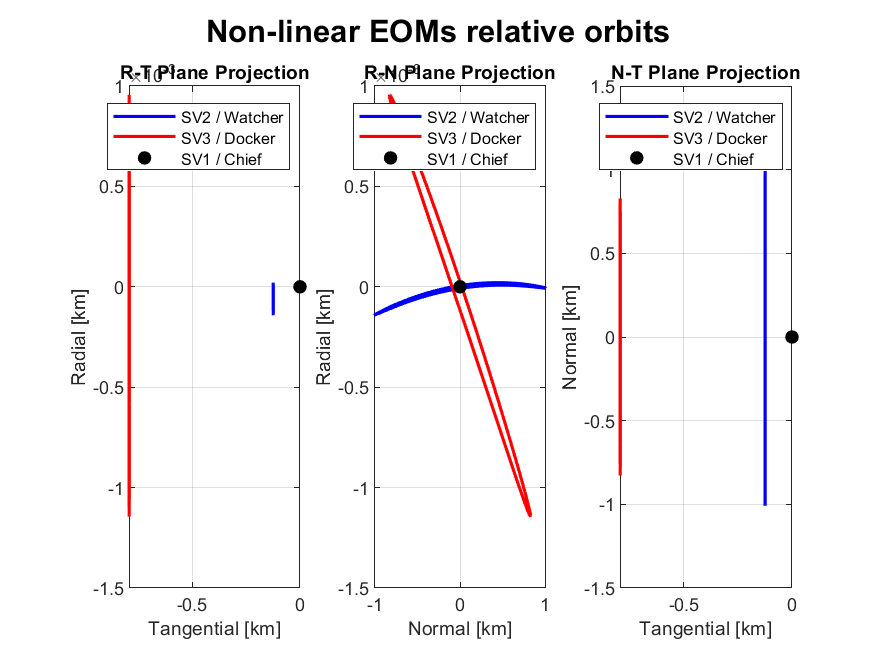
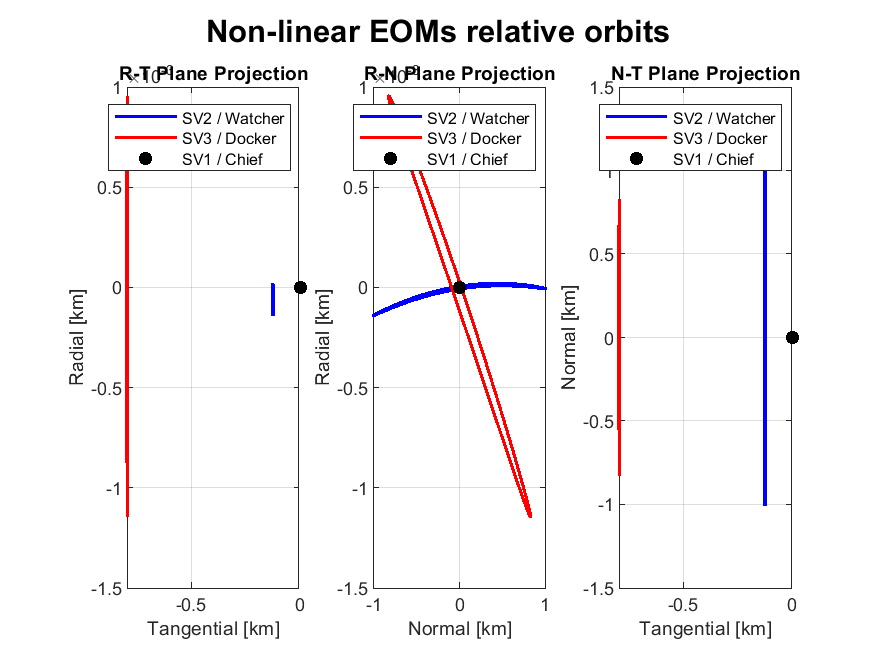
mostly done Q2

diff --git a/sim/evaluate_YA_geometric_mapping.m b/sim/evaluate_YA_geometric_mapping.m
@@ -1,0 +1,75 @@
+function states = evaluate_YA_geometric_mapping(t, a, ex, ey, i, w, M_init, d_a,d_lambda,d_e_x,d_e_y,d_i_x,d_i_y)
+    global mu_earth;
+    n = sqrt(mu_earth / a^3);
+    e = sqrt(ex^2 + ey^2);
+    eta = sqrt(1 - e^2);
+    
+
+    ROE_init = [d_a;d_lambda;d_e_x;d_e_y;d_i_x;d_i_y];
+    N = length(t);
+    states = zeros(N, 6);
+    for idx = 1:N
+        M = deg2rad(M_init) + n * t(idx);
+        M = mod(M, 2*pi);
+        E = Newton_Raphson(M, e, 1e-10);
+        f = 2 * atan2(sqrt(1 + e) * tan(E / 2), sqrt(1 - e));
+        u = w + f;  % True longitude
+
+        k = 1 + ex*cos(u)+ ey*sin(u);
+        k_prime = -ex*sin(u) + ey*cos(u);
+
+        %tau = n * t(idx) / eta^3;
+
+        A = [a * (eta^2)*eye(3), zeros(3); zeros(3), a * (n / eta) * eye(3)];
+        B = compute_B_full(t(idx), k, k_prime, n, eta, u, i, ex, ey);
+        total = A * B;
+        states(idx, :) = (total * ROE_init)';
+    end
+end
+
+function B = compute_B_full(t, k, kp, n, eta, u, i, ex, ey)
+    
+    % Bx block
+    bx1 = 1/k + (3/2)*kp*(n/eta^3)*t;
+    bx2 = -kp / eta^3;
+    bx3 = (1/eta^3)*(ex*(k - 1)/(1 + eta) - cos(u));
+    bx4 = (1/eta^3)*(ey*(k - 1)/(1 + eta) - sin(u));
+    bx6 = (kp / eta^3) * cot(i);
+    
+    % By block
+    by1 = -(3/2)*k*(n/eta^3) * t;
+    by2 = k / eta^3;
+    by3 = (1/eta^2)*((1 + 1/k)*sin(u) + (ey/k) + (k/eta)*(ey/(1 + eta)));
+    by4 = -(1/eta^2)*((1 + 1/k)*cos(u) + (ex/k) + (k/eta)*(ex/(1 + eta)));
+    by6 = (1/k - (k/eta^3))*cot(i);
+    
+    % Bz block
+    bz5 = (1/k) * sin(u);
+    bz6 = -(1/k) * cos(u);
+
+    % Bxdot block
+    bx_dot1 = (kp/2) + (3/2)*(k^2)*(1 - k)*(n/eta^3) * t;
+    bx_dot2 = (k^2 / eta^3) * (k - 1);
+    bx_dot3 = (k^2 / eta^3) * (eta * sin(u) + ey * (k - 1)/(1 + eta));
+    bx_dot4 = -(k^2 / eta^3) * (eta * cos(u) + ex * (k - 1)/(1 + eta));
+    bx_dot6 = -(k^2 / eta^3) * (k - 1) * cot(i);
+
+    % Bydot block
+    by_dot1 = -(3/2)*k*(1 + k * kp * (n / eta^3) * t);
+    by_dot2 = (k^2 / eta^3) * kp;
+    by_dot3 = (1 + (k^2 / eta^3))*cos(u) + ex*(k/eta^2)*(1 + (k/eta)*(1 - k)/(1 + eta));
+    by_dot4 = (1 + (k^2 / eta^3))*sin(u) + ey*(k/eta^2)*(1 + (k/eta)*(1 - k)/(1 + eta));
+    by_dot6 = -(1 + (k^2 / eta^3))*kp*cot(i);
+
+    % Bz dot block
+    bz_dot5 = cos(u) + ex;
+    bz_dot6 = sin(u) + ey;
+
+    B = zeros(6, 6);
+    B(1,1) = bx1;    B(1,2) = bx2;    B(1,3) = bx3;    B(1,4) = bx4;    B(1,6) = bx6;
+    B(2,1) = by1;    B(2,2) = by2;    B(2,3) = by3;    B(2,4) = by4;    B(2,6) = by6;
+    B(3,5) = bz5;    B(3,6) = bz6;
+    B(4,1) = bx_dot1;B(4,2) = bx_dot2;B(4,3) = bx_dot3;B(4,4) = bx_dot4;B(4,6) = bx_dot6;
+    B(5,1) = by_dot1;B(5,2) = by_dot2;B(5,3) = by_dot3;B(5,4) = by_dot4;B(5,6) = by_dot6;
+    B(6,5) = bz_dot5;B(6,6) = bz_dot6;
+end

diff --git a/sim/ps3_sims.m b/sim/ps3_sims.m
@@ -110,14 +110,14 @@ state_rel_SV3_init = [r_SV1_ECI_init; v_SV1_ECI_init; r_SV3_RTN_init; v_SV3_RTN_
 %%%%%% RUN SIM OF RELATIVE MOTION %%%%%%%%
 [t_2, state_2] = rk4_eom_rel_RTN(tstart:tint:tend, state_rel_SV2_init);
 [t_3, state_3] = rk4_eom_rel_RTN(tstart:tint:tend, state_rel_SV3_init);
-SV2_rel_pos = [state_2(:, 7), state_2(:, 8), state_2(:, 9)];
+SV2_rel_pos_ecc = [state_2(:, 7), state_2(:, 8), state_2(:, 9)];
 SV2_rel_vel = [state_2(:, 10), state_2(:, 11), state_2(:, 12)];
-SV3_rel_pos = [state_3(:, 7), state_3(:, 8), state_3(:, 9)];
+SV3_rel_pos_ecc = [state_3(:, 7), state_3(:, 8), state_3(:, 9)];
 SV3_rel_vel = [state_3(:, 10), state_3(:, 11), state_3(:, 12)];
 
 % We see that the ratio of relative distance to orbit size is smaller than 1e-3
-rho_pos_ratio_SV2 = vecnorm(SV2_rel_pos, 2, 2)./r_RTN_no_j2(:, 1);
-rho_pos_ratio_SV3 = vecnorm(SV3_rel_pos, 2, 2)./r_RTN_no_j2(:, 1);
+rho_pos_ratio_SV2 = vecnorm(SV2_rel_pos_ecc, 2, 2)./r_RTN_no_j2(:, 1);
+rho_pos_ratio_SV3 = vecnorm(SV3_rel_pos_ecc, 2, 2)./r_RTN_no_j2(:, 1);
 
 %%%%% CALCULATE THE YA INTEGRATION CONSTANTS %%%%% 
 K_YA_SV2 = ya_integration_constants([r_SV2_RTN_init; v_SV2_RTN_init], a_SV1_init, e_SV1_init, nu_SV1_init);
@@ -126,10 +126,23 @@ K_YA_SV3 = ya_integration_constants([r_SV3_RTN_init; v_SV3_RTN_init], a_SV1_init
 
 %%%% PROPAGATE RELATIVE POS, VEL USING YA SOLUTION %%%%%%
 % evaluate_ya(t, a, e, K, M_init)
-SV2_YA_state = evaluate_ya(t_2, a_SV1_init, e_SV1_init, M_SV1_init, K_SV2);
-%SV3_HCW_state = evaluate_HCW(t_2, a_SV1_init, K_SV3);  
+SV2_YA_state = evaluate_ya(t_2, a_SV1_init, e_SV1_init, M_SV1_init, K_YA_SV2);
+SV3_YA_state = evaluate_ya(t_2, a_SV1_init, e_SV1_init, M_SV1_init, K_YA_SV3);  
 
-SV2_HCW_pos = SV2_YA_state(:, 1:3);
-%SV3_HCW_pos = SV3_HCW_state(:, 1:3);
-SV2_HCW_vel = SV2_YA_state(:, 4:6);
-%SV3_HCW_vel = SV3_HCW_state(:, 4:6);
+SV2_YA_pos = SV2_YA_state(:, 1:3);
+SV3_YA_pos = SV3_YA_state(:, 1:3);
+SV2_YA_vel = SV2_YA_state(:, 4:6);
+SV3_YA_vel = SV3_YA_state(:, 4:6);
+
+%%%% PROPAGATE RELATIVE POS, VEL USING YA GEOMETRIC LINEAR MAPPING %%%%%%
+SV2_YA_state_mapping = evaluate_YA_geometric_mapping(t_2,a_SV1_init,ex_SV1_init,...
+    ey_SV1_init,i_SV1_init,w_SV1_init,M_SV1_init,d_a_SV2_init,d_lambda_SV2_init,...
+    d_e_x_SV2_init,d_e_y_SV2_init,d_i_x_SV2_init,d_i_y_SV2_init);
+SV3_YA_state_mapping = evaluate_YA_geometric_mapping(t_2,a_SV1_init,ex_SV1_init,...
+    ey_SV1_init,i_SV1_init,w_SV1_init,M_SV1_init,d_a_SV3_init,d_lambda_SV3_init,...
+    d_e_x_SV3_init,d_e_y_SV3_init,d_i_x_SV3_init,d_i_y_SV3_init);
+
+SV2_YA_mapping_pos = SV2_YA_state(:, 1:3);
+SV3_YA_mapping_pos = SV3_YA_state(:, 1:3);
+SV2_YA_mapping_vel = SV2_YA_state(:, 4:6);
+SV3_YA_mapping_vel = SV3_YA_state(:, 4:6);

diff --git a/sim/sim_main.m b/sim/sim_main.m
@@ -91,7 +91,12 @@ if run_PS3
 
     %%%%% PLOT OF RELATIVE ORBITS USING YA %%%%%
     plot_rel_pos_vel_single(t_2, t_orbit, SV2_YA_pos, SV2_YA_vel, 'SV2 YA evaluate relative position + velocity', 'figures/PS3/YA_pos_vel_SV2.png');
-    %plot_rel_pos_vel_single(t_2, t_orbit, SV3_YA_pos, SV3_YA_vel, 'SV3 YA evaluate relative position + velocity', 'figures/PS3/YA_pos_vel_SV3.png');
-    %plot_RT_RN_projections(SV2_HCW_pos_test, SV3_HCW_pos_test, 'HCW evaluated relative orbits', 'figures/PS3/RTN_projections_HCW.png');
-    %plot_RT_RN_projections(SV2_rel_pos, SV3_rel_pos, 'Non-linear EOMs relative orbits', 'figures/PS3/RTN_projections_numerical.png');
+    plot_rel_pos_vel_single(t_2, t_orbit, SV3_YA_pos, SV3_YA_vel, 'SV3 YA evaluate relative position + velocity', 'figures/PS3/YA_pos_vel_SV3.png');
+    plot_RT_RN_projections(SV2_YA_pos, SV3_YA_pos, 'YA evaluated relative orbits', 'figures/PS3/RTN_projections_YA.png');
+    plot_RT_RN_projections(SV2_rel_pos_ecc, SV3_rel_pos_ecc, 'Non-linear EOMs relative orbits with eccentric chief', 'figures/PS3/RTN_projections_numerical_eccentric.png');
+
+    plot_rel_pos_vel_single(t_2, t_orbit, SV2_YA_mapping_pos, SV2_YA_mapping_vel, 'SV2 YA gemetric mapping relative position + velocity', 'figures/PS3/YA_mapping_pos_vel_SV2.png');
+    plot_rel_pos_vel_single(t_2, t_orbit, SV3_YA_mapping_pos, SV3_YA_mapping_vel, 'SV3 YA gemetric mapping relative position + velocity', 'figures/PS3/YA_mapping_pos_vel_SV3.png');
+    plot_RT_RN_projections(SV2_YA_mapping_pos, SV3_YA_mapping_pos, 'YA geometric mapping relative orbits', 'figures/PS3/RTN_projections_YA_mapping.png');
+
 end
